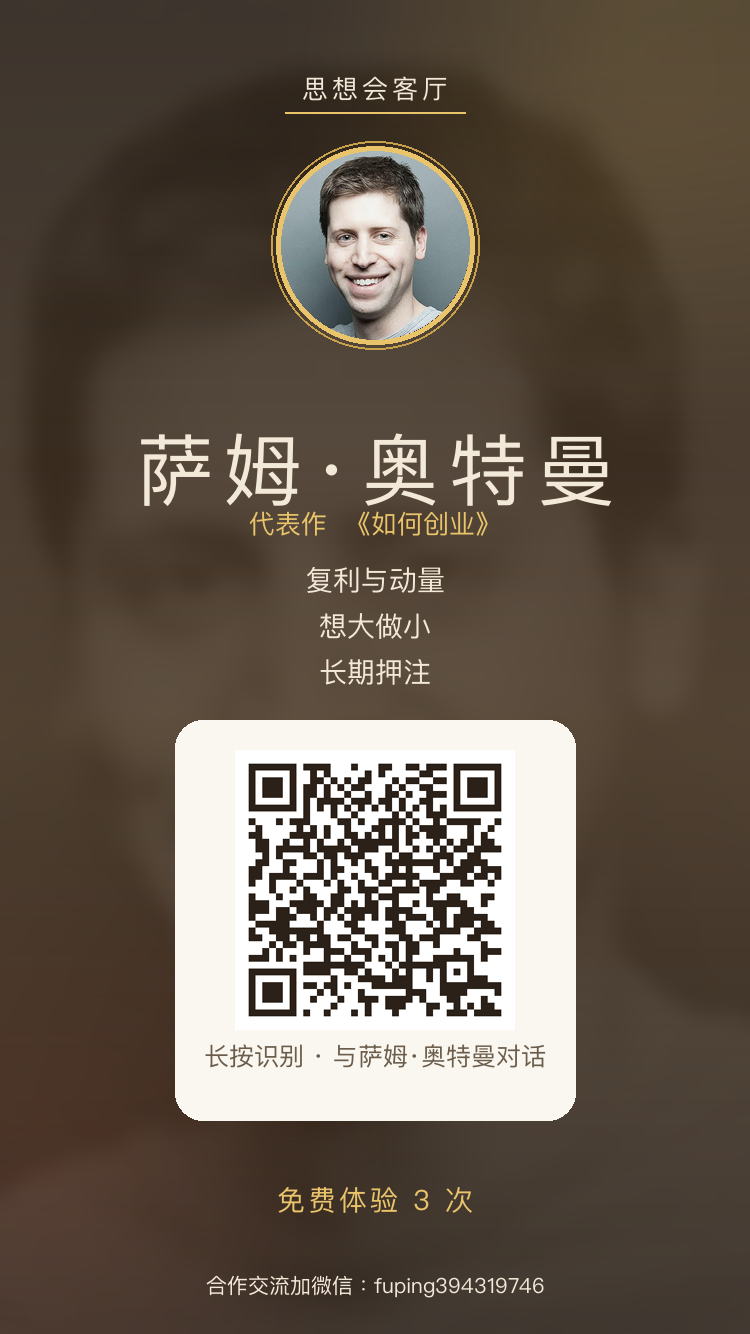
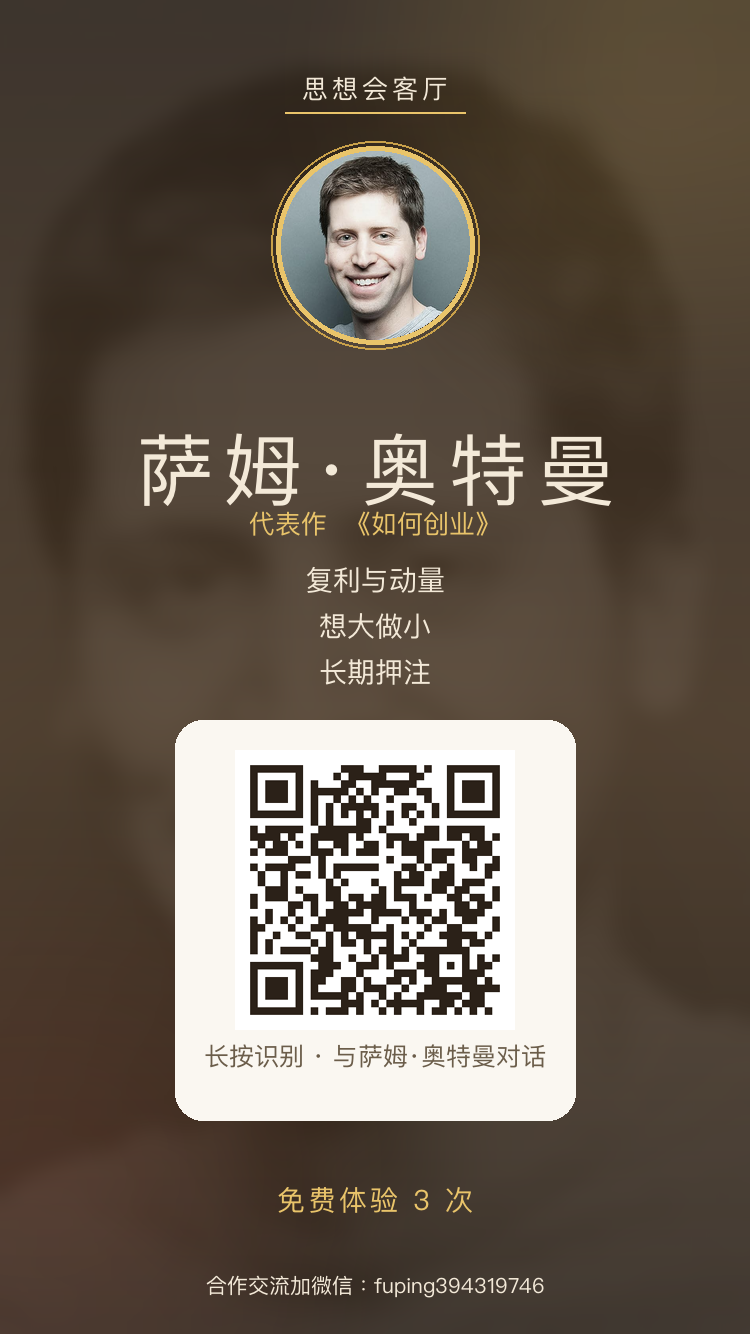
fix(thought-salon): 海报二维码指向活的Render部署(nuwa-h5.onrender.com)，修复扫不开

Changed region(s): [[0.3067, 0.5532, 0.6747, 0.7684]]

diff --git a/share/posters/index.html b/share/posters/index.html
@@ -9,29 +9,29 @@ code{display:block;font-size:11px;opacity:.5;margin:6px 0;word-break:break-all}
 a{color:#e9c46a;font-size:13px;text-decoration:none}</style></head>
 <body><h1>思想会客厅 · 海报预览</h1>
 <p>总览 1 张 + 大师专属 25 张 · 扫码即选中对应大师（深链 ?thinker=id）</p>
-<div class="grid"><div class="c"><img src="00-总览.png"><div class="meta"><b>总览 · 扫码进大厅</b><code>https://d6gnzuxxd50c83iaa-1502990614.tcloudbaseapp.com</code><a href="https://d6gnzuxxd50c83iaa-1502990614.tcloudbaseapp.com" target="_blank">打开链接 ↗</a></div></div>
-<div class="c"><img src="charlie-munger.png"><div class="meta"><b>查理·芒格</b><code>https://d6gnzuxxd50c83iaa-1502990614.tcloudbaseapp.com/?thinker=charlie-munger</code><a href="https://d6gnzuxxd50c83iaa-1502990614.tcloudbaseapp.com/?thinker=charlie-munger" target="_blank">打开链接 ↗</a></div></div>
-<div class="c"><img src="elon-musk.png"><div class="meta"><b>埃隆·马斯克</b><code>https://d6gnzuxxd50c83iaa-1502990614.tcloudbaseapp.com/?thinker=elon-musk</code><a href="https://d6gnzuxxd50c83iaa-1502990614.tcloudbaseapp.com/?thinker=elon-musk" target="_blank">打开链接 ↗</a></div></div>
-<div class="c"><img src="richard-feynman.png"><div class="meta"><b>理查德·费曼</b><code>https://d6gnzuxxd50c83iaa-1502990614.tcloudbaseapp.com/?thinker=richard-feynman</code><a href="https://d6gnzuxxd50c83iaa-1502990614.tcloudbaseapp.com/?thinker=richard-feynman" target="_blank">打开链接 ↗</a></div></div>
-<div class="c"><img src="zhang-yiming.png"><div class="meta"><b>张一鸣</b><code>https://d6gnzuxxd50c83iaa-1502990614.tcloudbaseapp.com/?thinker=zhang-yiming</code><a href="https://d6gnzuxxd50c83iaa-1502990614.tcloudbaseapp.com/?thinker=zhang-yiming" target="_blank">打开链接 ↗</a></div></div>
-<div class="c"><img src="naval-ravikant.png"><div class="meta"><b>纳瓦尔·拉维坎特</b><code>https://d6gnzuxxd50c83iaa-1502990614.tcloudbaseapp.com/?thinker=naval-ravikant</code><a href="https://d6gnzuxxd50c83iaa-1502990614.tcloudbaseapp.com/?thinker=naval-ravikant" target="_blank">打开链接 ↗</a></div></div>
-<div class="c"><img src="steve-jobs.png"><div class="meta"><b>史蒂夫·乔布斯</b><code>https://d6gnzuxxd50c83iaa-1502990614.tcloudbaseapp.com/?thinker=steve-jobs</code><a href="https://d6gnzuxxd50c83iaa-1502990614.tcloudbaseapp.com/?thinker=steve-jobs" target="_blank">打开链接 ↗</a></div></div>
-<div class="c"><img src="kazuo-inamori.png"><div class="meta"><b>稻盛和夫</b><code>https://d6gnzuxxd50c83iaa-1502990614.tcloudbaseapp.com/?thinker=kazuo-inamori</code><a href="https://d6gnzuxxd50c83iaa-1502990614.tcloudbaseapp.com/?thinker=kazuo-inamori" target="_blank">打开链接 ↗</a></div></div>
-<div class="c"><img src="wang-yangming.png"><div class="meta"><b>王阳明</b><code>https://d6gnzuxxd50c83iaa-1502990614.tcloudbaseapp.com/?thinker=wang-yangming</code><a href="https://d6gnzuxxd50c83iaa-1502990614.tcloudbaseapp.com/?thinker=wang-yangming" target="_blank">打开链接 ↗</a></div></div>
-<div class="c"><img src="socrates.png"><div class="meta"><b>苏格拉底</b><code>https://d6gnzuxxd50c83iaa-1502990614.tcloudbaseapp.com/?thinker=socrates</code><a href="https://d6gnzuxxd50c83iaa-1502990614.tcloudbaseapp.com/?thinker=socrates" target="_blank">打开链接 ↗</a></div></div>
-<div class="c"><img src="warren-buffett.png"><div class="meta"><b>沃伦·巴菲特</b><code>https://d6gnzuxxd50c83iaa-1502990614.tcloudbaseapp.com/?thinker=warren-buffett</code><a href="https://d6gnzuxxd50c83iaa-1502990614.tcloudbaseapp.com/?thinker=warren-buffett" target="_blank">打开链接 ↗</a></div></div>
-<div class="c"><img src="ray-dalio.png"><div class="meta"><b>雷·达利欧</b><code>https://d6gnzuxxd50c83iaa-1502990614.tcloudbaseapp.com/?thinker=ray-dalio</code><a href="https://d6gnzuxxd50c83iaa-1502990614.tcloudbaseapp.com/?thinker=ray-dalio" target="_blank">打开链接 ↗</a></div></div>
-<div class="c"><img src="confucius.png"><div class="meta"><b>孔子</b><code>https://d6gnzuxxd50c83iaa-1502990614.tcloudbaseapp.com/?thinker=confucius</code><a href="https://d6gnzuxxd50c83iaa-1502990614.tcloudbaseapp.com/?thinker=confucius" target="_blank">打开链接 ↗</a></div></div>
-<div class="c"><img src="friedrich-nietzsche.png"><div class="meta"><b>弗里德里希·尼采</b><code>https://d6gnzuxxd50c83iaa-1502990614.tcloudbaseapp.com/?thinker=friedrich-nietzsche</code><a href="https://d6gnzuxxd50c83iaa-1502990614.tcloudbaseapp.com/?thinker=friedrich-nietzsche" target="_blank">打开链接 ↗</a></div></div>
-<div class="c"><img src="laozi.png"><div class="meta"><b>老子</b><code>https://d6gnzuxxd50c83iaa-1502990614.tcloudbaseapp.com/?thinker=laozi</code><a href="https://d6gnzuxxd50c83iaa-1502990614.tcloudbaseapp.com/?thinker=laozi" target="_blank">打开链接 ↗</a></div></div>
-<div class="c"><img src="marie-curie.png"><div class="meta"><b>玛丽·居里</b><code>https://d6gnzuxxd50c83iaa-1502990614.tcloudbaseapp.com/?thinker=marie-curie</code><a href="https://d6gnzuxxd50c83iaa-1502990614.tcloudbaseapp.com/?thinker=marie-curie" target="_blank">打开链接 ↗</a></div></div>
-<div class="c"><img src="daniel-kahneman.png"><div class="meta"><b>丹尼尔·卡尼曼</b><code>https://d6gnzuxxd50c83iaa-1502990614.tcloudbaseapp.com/?thinker=daniel-kahneman</code><a href="https://d6gnzuxxd50c83iaa-1502990614.tcloudbaseapp.com/?thinker=daniel-kahneman" target="_blank">打开链接 ↗</a></div></div>
-<div class="c"><img src="sun-tzu.png"><div class="meta"><b>孙子</b><code>https://d6gnzuxxd50c83iaa-1502990614.tcloudbaseapp.com/?thinker=sun-tzu</code><a href="https://d6gnzuxxd50c83iaa-1502990614.tcloudbaseapp.com/?thinker=sun-tzu" target="_blank">打开链接 ↗</a></div></div>
-<div class="c"><img src="jensen-huang.png"><div class="meta"><b>黄仁勋</b><code>https://d6gnzuxxd50c83iaa-1502990614.tcloudbaseapp.com/?thinker=jensen-huang</code><a href="https://d6gnzuxxd50c83iaa-1502990614.tcloudbaseapp.com/?thinker=jensen-huang" target="_blank">打开链接 ↗</a></div></div>
-<div class="c"><img src="coco-chanel.png"><div class="meta"><b>可可·香奈儿</b><code>https://d6gnzuxxd50c83iaa-1502990614.tcloudbaseapp.com/?thinker=coco-chanel</code><a href="https://d6gnzuxxd50c83iaa-1502990614.tcloudbaseapp.com/?thinker=coco-chanel" target="_blank">打开链接 ↗</a></div></div>
-<div class="c"><img src="nassim-taleb.png"><div class="meta"><b>纳西姆·塔勒布</b><code>https://d6gnzuxxd50c83iaa-1502990614.tcloudbaseapp.com/?thinker=nassim-taleb</code><a href="https://d6gnzuxxd50c83iaa-1502990614.tcloudbaseapp.com/?thinker=nassim-taleb" target="_blank">打开链接 ↗</a></div></div>
-<div class="c"><img src="sima-qian.png"><div class="meta"><b>司马迁</b><code>https://d6gnzuxxd50c83iaa-1502990614.tcloudbaseapp.com/?thinker=sima-qian</code><a href="https://d6gnzuxxd50c83iaa-1502990614.tcloudbaseapp.com/?thinker=sima-qian" target="_blank">打开链接 ↗</a></div></div>
-<div class="c"><img src="sam-altman.png"><div class="meta"><b>萨姆·奥特曼</b><code>https://d6gnzuxxd50c83iaa-1502990614.tcloudbaseapp.com/?thinker=sam-altman</code><a href="https://d6gnzuxxd50c83iaa-1502990614.tcloudbaseapp.com/?thinker=sam-altman" target="_blank">打开链接 ↗</a></div></div>
-<div class="c"><img src="liqingzhao.png"><div class="meta"><b>李清照</b><code>https://d6gnzuxxd50c83iaa-1502990614.tcloudbaseapp.com/?thinker=liqingzhao</code><a href="https://d6gnzuxxd50c83iaa-1502990614.tcloudbaseapp.com/?thinker=liqingzhao" target="_blank">打开链接 ↗</a></div></div>
-<div class="c"><img src="friedrich-hayek.png"><div class="meta"><b>弗里德里希·哈耶克</b><code>https://d6gnzuxxd50c83iaa-1502990614.tcloudbaseapp.com/?thinker=friedrich-hayek</code><a href="https://d6gnzuxxd50c83iaa-1502990614.tcloudbaseapp.com/?thinker=friedrich-hayek" target="_blank">打开链接 ↗</a></div></div>
-<div class="c"><img src="john-maynard-keynes.png"><div class="meta"><b>约翰·梅纳德·凯恩斯</b><code>https://d6gnzuxxd50c83iaa-1502990614.tcloudbaseapp.com/?thinker=john-maynard-keynes</code><a href="https://d6gnzuxxd50c83iaa-1502990614.tcloudbaseapp.com/?thinker=john-maynard-keynes" target="_blank">打开链接 ↗</a></div></div></div></body></html>
+<div class="grid"><div class="c"><img src="00-总览.png"><div class="meta"><b>总览 · 扫码进大厅</b><code>https://nuwa-h5.onrender.com</code><a href="https://nuwa-h5.onrender.com" target="_blank">打开链接 ↗</a></div></div>
+<div class="c"><img src="charlie-munger.png"><div class="meta"><b>查理·芒格</b><code>https://nuwa-h5.onrender.com/?thinker=charlie-munger</code><a href="https://nuwa-h5.onrender.com/?thinker=charlie-munger" target="_blank">打开链接 ↗</a></div></div>
+<div class="c"><img src="elon-musk.png"><div class="meta"><b>埃隆·马斯克</b><code>https://nuwa-h5.onrender.com/?thinker=elon-musk</code><a href="https://nuwa-h5.onrender.com/?thinker=elon-musk" target="_blank">打开链接 ↗</a></div></div>
+<div class="c"><img src="richard-feynman.png"><div class="meta"><b>理查德·费曼</b><code>https://nuwa-h5.onrender.com/?thinker=richard-feynman</code><a href="https://nuwa-h5.onrender.com/?thinker=richard-feynman" target="_blank">打开链接 ↗</a></div></div>
+<div class="c"><img src="zhang-yiming.png"><div class="meta"><b>张一鸣</b><code>https://nuwa-h5.onrender.com/?thinker=zhang-yiming</code><a href="https://nuwa-h5.onrender.com/?thinker=zhang-yiming" target="_blank">打开链接 ↗</a></div></div>
+<div class="c"><img src="naval-ravikant.png"><div class="meta"><b>纳瓦尔·拉维坎特</b><code>https://nuwa-h5.onrender.com/?thinker=naval-ravikant</code><a href="https://nuwa-h5.onrender.com/?thinker=naval-ravikant" target="_blank">打开链接 ↗</a></div></div>
+<div class="c"><img src="steve-jobs.png"><div class="meta"><b>史蒂夫·乔布斯</b><code>https://nuwa-h5.onrender.com/?thinker=steve-jobs</code><a href="https://nuwa-h5.onrender.com/?thinker=steve-jobs" target="_blank">打开链接 ↗</a></div></div>
+<div class="c"><img src="kazuo-inamori.png"><div class="meta"><b>稻盛和夫</b><code>https://nuwa-h5.onrender.com/?thinker=kazuo-inamori</code><a href="https://nuwa-h5.onrender.com/?thinker=kazuo-inamori" target="_blank">打开链接 ↗</a></div></div>
+<div class="c"><img src="wang-yangming.png"><div class="meta"><b>王阳明</b><code>https://nuwa-h5.onrender.com/?thinker=wang-yangming</code><a href="https://nuwa-h5.onrender.com/?thinker=wang-yangming" target="_blank">打开链接 ↗</a></div></div>
+<div class="c"><img src="socrates.png"><div class="meta"><b>苏格拉底</b><code>https://nuwa-h5.onrender.com/?thinker=socrates</code><a href="https://nuwa-h5.onrender.com/?thinker=socrates" target="_blank">打开链接 ↗</a></div></div>
+<div class="c"><img src="warren-buffett.png"><div class="meta"><b>沃伦·巴菲特</b><code>https://nuwa-h5.onrender.com/?thinker=warren-buffett</code><a href="https://nuwa-h5.onrender.com/?thinker=warren-buffett" target="_blank">打开链接 ↗</a></div></div>
+<div class="c"><img src="ray-dalio.png"><div class="meta"><b>雷·达利欧</b><code>https://nuwa-h5.onrender.com/?thinker=ray-dalio</code><a href="https://nuwa-h5.onrender.com/?thinker=ray-dalio" target="_blank">打开链接 ↗</a></div></div>
+<div class="c"><img src="confucius.png"><div class="meta"><b>孔子</b><code>https://nuwa-h5.onrender.com/?thinker=confucius</code><a href="https://nuwa-h5.onrender.com/?thinker=confucius" target="_blank">打开链接 ↗</a></div></div>
+<div class="c"><img src="friedrich-nietzsche.png"><div class="meta"><b>弗里德里希·尼采</b><code>https://nuwa-h5.onrender.com/?thinker=friedrich-nietzsche</code><a href="https://nuwa-h5.onrender.com/?thinker=friedrich-nietzsche" target="_blank">打开链接 ↗</a></div></div>
+<div class="c"><img src="laozi.png"><div class="meta"><b>老子</b><code>https://nuwa-h5.onrender.com/?thinker=laozi</code><a href="https://nuwa-h5.onrender.com/?thinker=laozi" target="_blank">打开链接 ↗</a></div></div>
+<div class="c"><img src="marie-curie.png"><div class="meta"><b>玛丽·居里</b><code>https://nuwa-h5.onrender.com/?thinker=marie-curie</code><a href="https://nuwa-h5.onrender.com/?thinker=marie-curie" target="_blank">打开链接 ↗</a></div></div>
+<div class="c"><img src="daniel-kahneman.png"><div class="meta"><b>丹尼尔·卡尼曼</b><code>https://nuwa-h5.onrender.com/?thinker=daniel-kahneman</code><a href="https://nuwa-h5.onrender.com/?thinker=daniel-kahneman" target="_blank">打开链接 ↗</a></div></div>
+<div class="c"><img src="sun-tzu.png"><div class="meta"><b>孙子</b><code>https://nuwa-h5.onrender.com/?thinker=sun-tzu</code><a href="https://nuwa-h5.onrender.com/?thinker=sun-tzu" target="_blank">打开链接 ↗</a></div></div>
+<div class="c"><img src="jensen-huang.png"><div class="meta"><b>黄仁勋</b><code>https://nuwa-h5.onrender.com/?thinker=jensen-huang</code><a href="https://nuwa-h5.onrender.com/?thinker=jensen-huang" target="_blank">打开链接 ↗</a></div></div>
+<div class="c"><img src="coco-chanel.png"><div class="meta"><b>可可·香奈儿</b><code>https://nuwa-h5.onrender.com/?thinker=coco-chanel</code><a href="https://nuwa-h5.onrender.com/?thinker=coco-chanel" target="_blank">打开链接 ↗</a></div></div>
+<div class="c"><img src="nassim-taleb.png"><div class="meta"><b>纳西姆·塔勒布</b><code>https://nuwa-h5.onrender.com/?thinker=nassim-taleb</code><a href="https://nuwa-h5.onrender.com/?thinker=nassim-taleb" target="_blank">打开链接 ↗</a></div></div>
+<div class="c"><img src="sima-qian.png"><div class="meta"><b>司马迁</b><code>https://nuwa-h5.onrender.com/?thinker=sima-qian</code><a href="https://nuwa-h5.onrender.com/?thinker=sima-qian" target="_blank">打开链接 ↗</a></div></div>
+<div class="c"><img src="sam-altman.png"><div class="meta"><b>萨姆·奥特曼</b><code>https://nuwa-h5.onrender.com/?thinker=sam-altman</code><a href="https://nuwa-h5.onrender.com/?thinker=sam-altman" target="_blank">打开链接 ↗</a></div></div>
+<div class="c"><img src="liqingzhao.png"><div class="meta"><b>李清照</b><code>https://nuwa-h5.onrender.com/?thinker=liqingzhao</code><a href="https://nuwa-h5.onrender.com/?thinker=liqingzhao" target="_blank">打开链接 ↗</a></div></div>
+<div class="c"><img src="friedrich-hayek.png"><div class="meta"><b>弗里德里希·哈耶克</b><code>https://nuwa-h5.onrender.com/?thinker=friedrich-hayek</code><a href="https://nuwa-h5.onrender.com/?thinker=friedrich-hayek" target="_blank">打开链接 ↗</a></div></div>
+<div class="c"><img src="john-maynard-keynes.png"><div class="meta"><b>约翰·梅纳德·凯恩斯</b><code>https://nuwa-h5.onrender.com/?thinker=john-maynard-keynes</code><a href="https://nuwa-h5.onrender.com/?thinker=john-maynard-keynes" target="_blank">打开链接 ↗</a></div></div></div></body></html>

diff --git a/share/make_thinker_posters.py b/share/make_thinker_posters.py
@@ -10,7 +10,7 @@ import os, re, sys, json
 import qrcode
 from PIL import Image, ImageDraw, ImageFont, ImageFilter, ImageOps
 
-BASE = sys.argv[1] if len(sys.argv) > 1 else 'https://d6gnzuxxd50c83iaa-1502990614.tcloudbaseapp.com'
+BASE = sys.argv[1] if len(sys.argv) > 1 else 'https://nuwa-h5.onrender.com'
 HERE = os.path.dirname(os.path.abspath(__file__))
 SKILLS_JSON = os.path.join(HERE, '..', 'skills.json')
 OUT  = os.path.join(HERE, 'posters')
